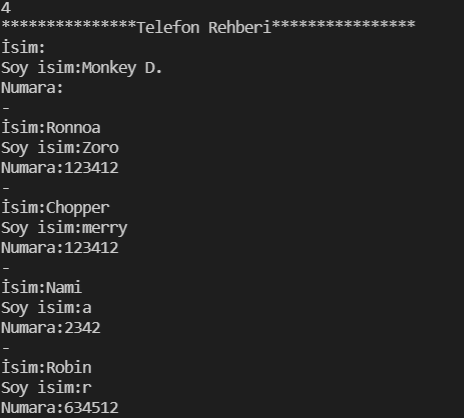
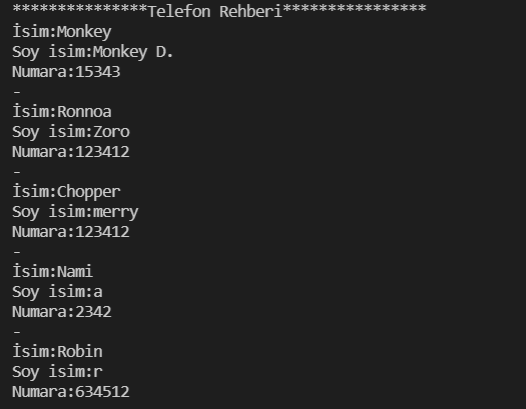
bug fixes

Changed region(s): [[0.0, 0.0, 0.9052, 0.6161], [0.0, 0.6455, 0.2716, 0.9976]]

diff --git a/Proje1_ConsoleTelefonRehberi/Program.cs b/Proje1_ConsoleTelefonRehberi/Program.cs
@@ -141,7 +141,7 @@ namespace Proje1_ConsoleTelefonRehberi
                         System.Console.WriteLine("Numara için    (3): ");
 
                         string userChooses = Console.ReadLine();
-                        Person p = new();
+                        Person p = new(result.Name, result.SurName, result.Number);
                         foreach (var item in userChooses)
                         {
                             if (item == '1')
